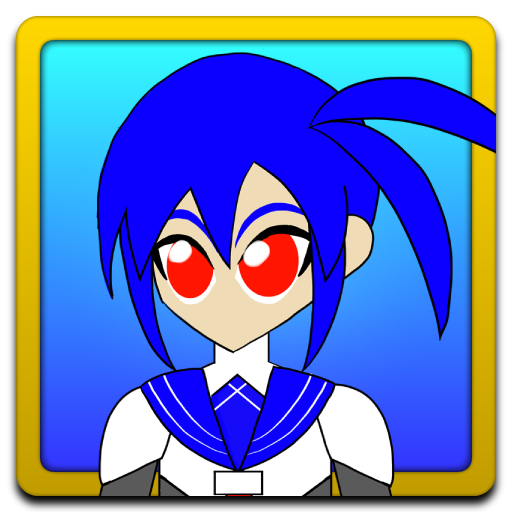
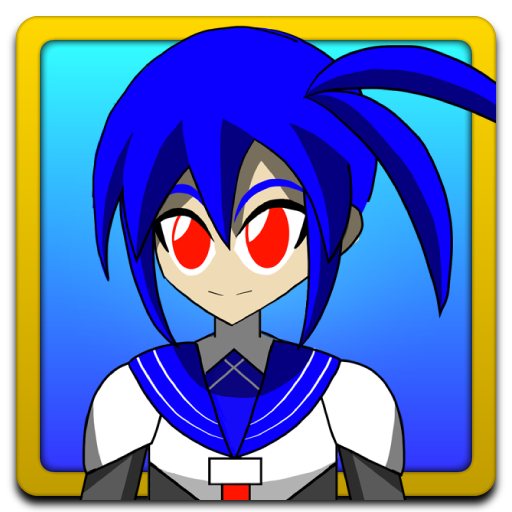
ツバサのパイロット画像を修正した

diff --git a/src/js/game-object/pilot-button/view/tsubasa.js b/src/js/game-object/pilot-button/view/tsubasa.js
@@ -31,7 +31,7 @@ export class TsubasaIcon implements PilotIcon {
       height: 400,
     });
     this._mesh.getObject3D().position.x = 10;
-    this._mesh.getObject3D().position.y = 140;
+    this._mesh.getObject3D().position.y = 120;
     this._group.add(this._mesh.getObject3D());
   }
 

diff --git a/src/css/player-select.css b/src/css/player-select.css
@@ -126,7 +126,7 @@
 }
 
 .player-select__pilot-bust-shot__tsubasa {
-  --width: calc(var(--vh) * 85);
+  --width: calc(var(--vh) * 95);
   --height: var(--width);
   position: absolute;
   left: calc(100vw - var(--width) * 0.9 - var(--safe-area-right));
